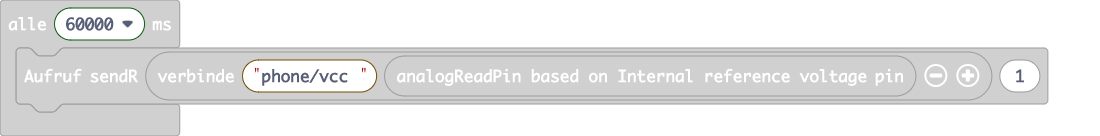
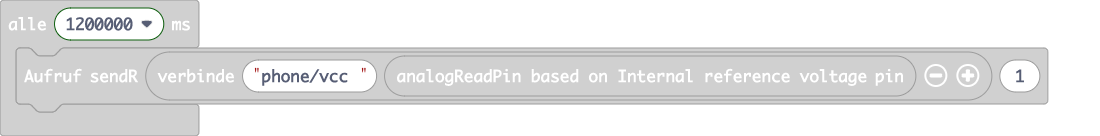
Send Vcc every 20 mins

diff --git a/main.ts b/main.ts
@@ -65,9 +65,9 @@ basic.showNumber(counter)
 let repeats = 8
 pulseCount = 0
 lastDialstart = 0
-loops.everyInterval(60000, function () {
-    sendR("phone/vcc " + pins.analogReadPinInternalRef(), 1)
-})
 basic.forever(function () {
 	
+})
+loops.everyInterval(1200000, function () {
+    sendR("phone/vcc " + pins.analogReadPinInternalRef(), 1)
 })
